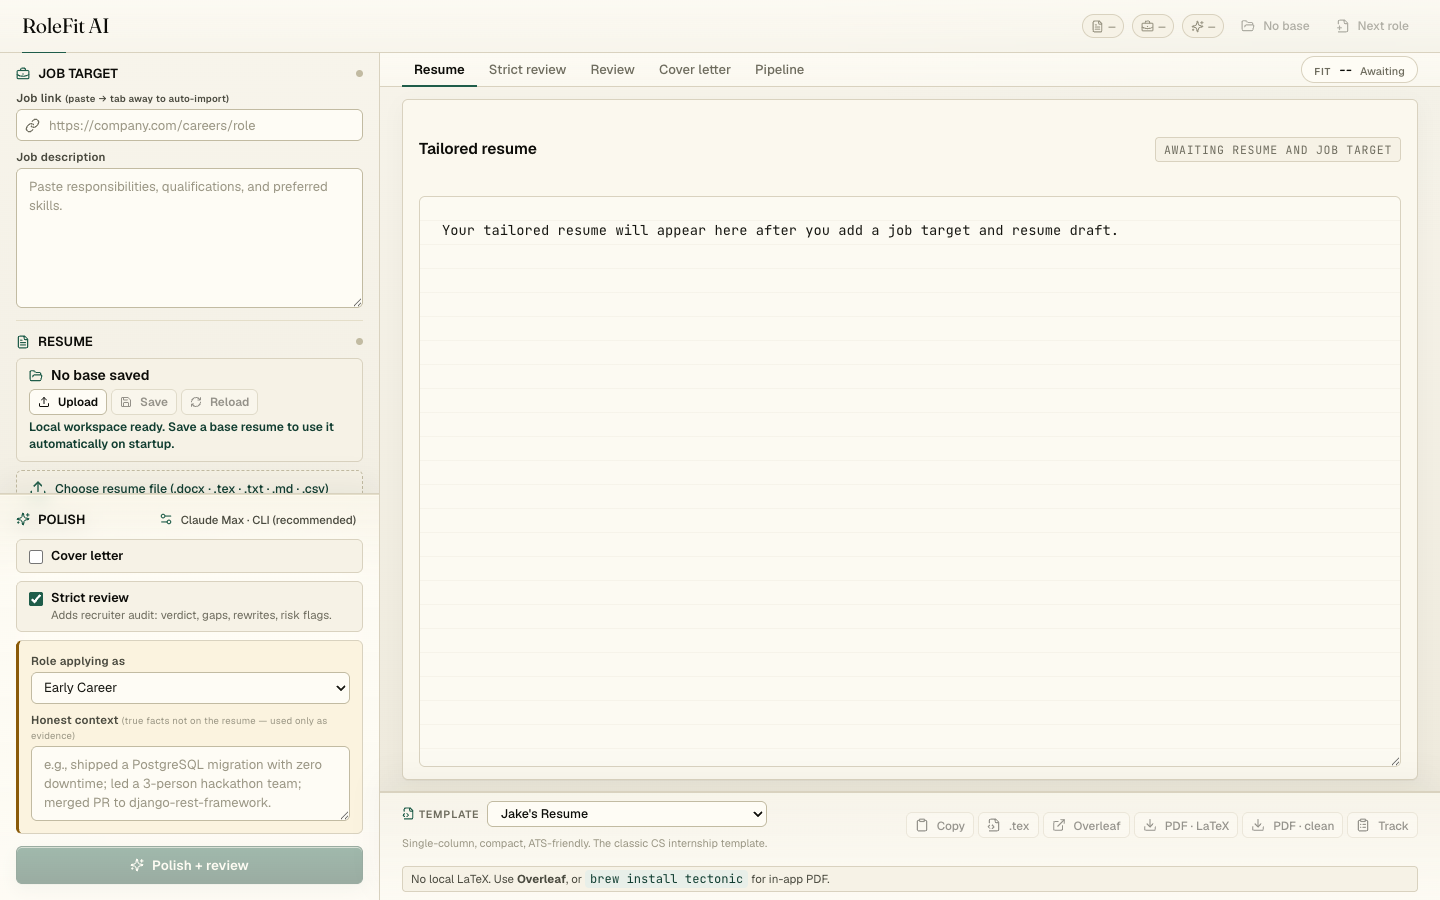
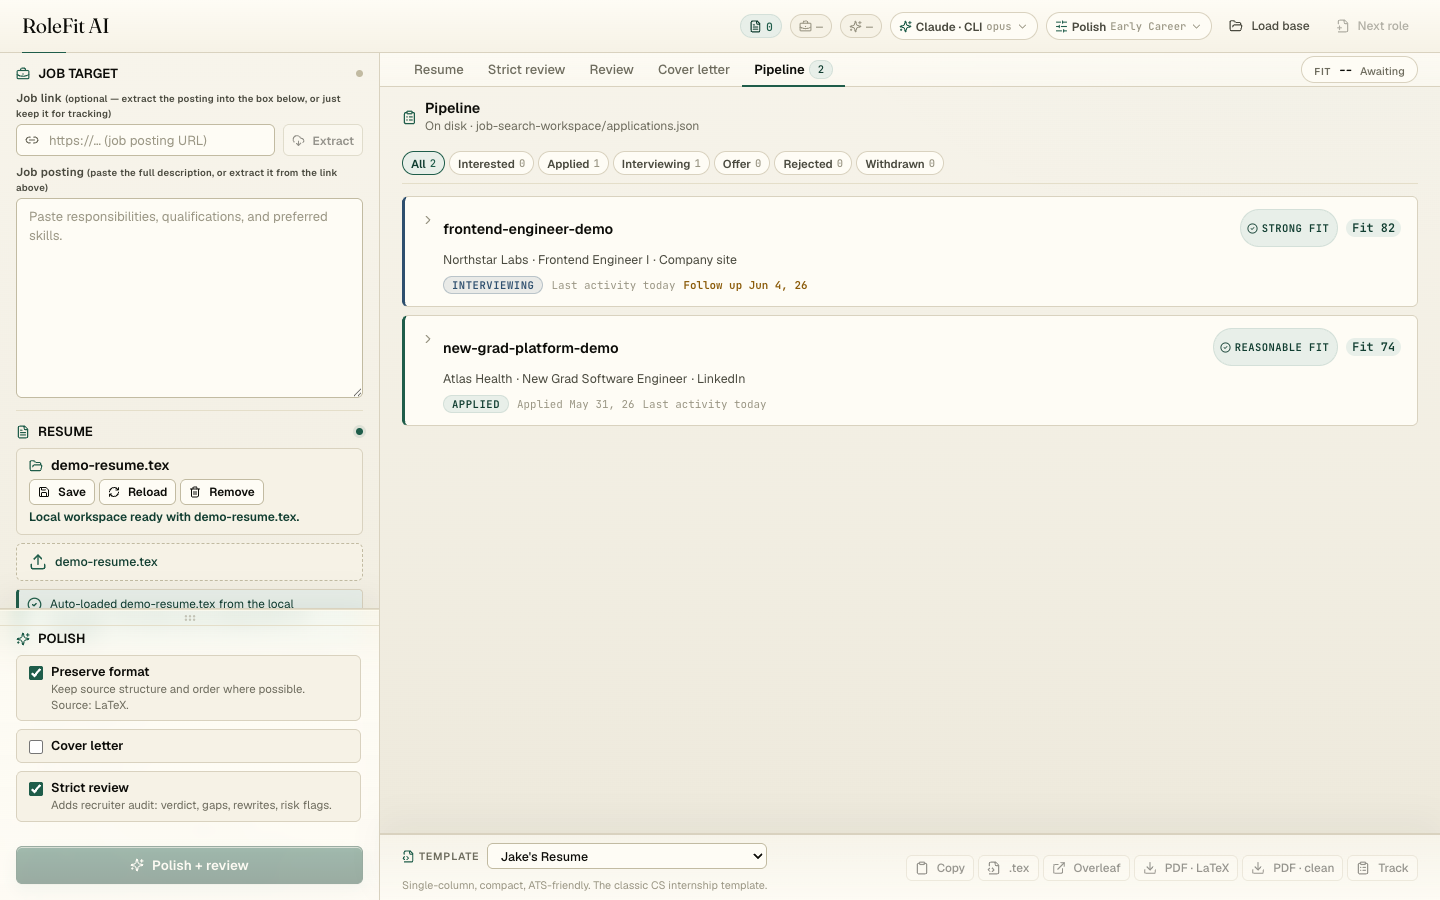
docs: refresh readme screenshot

diff --git a/README.md b/README.md
@@ -1,10 +1,12 @@
 # RoleFit AI
 
-A **local-first** resume tailoring webapp. Import a job posting (paste it, or pull it straight from the link), tailor your base resume from your workspace, score the draft against the job description, and export to LaTeX / DOCX / PDF — without your personal data leaving your machine.
+A **local-first** resume tailoring webapp. Import a job posting (paste it, or pull it straight from the link), tailor your base resume from your workspace, score the draft against the job description, and export to LaTeX / DOCX / PDF — without storing your personal data in a hosted app.
 
 > Built for an entry-level SDE job hunt: tight workflow loop, blunt recruiter-style audit before applying, and a local pipeline tracker so you never lose track of a role.
 
-![RoleFit AI workspace](docs/screenshot.png)
+![RoleFit AI pipeline workspace with demo data](docs/screenshot.png)
+
+_Screenshot uses demo workspace data._
 
 ## Highlights
 
@@ -17,11 +19,11 @@ A **local-first** resume tailoring webapp. Import a job posting (paste it, or pu
 - **DOCX format preservation** through direct OpenXML paragraph edits.
 - **Clean ATS PDF export** — a dependency-free PDF generated locally with real Helvetica metrics and WinAnsi encoding, so accented names (e.g. "José Müller") render and the text stays selectable for ATS parsing.
 - **On-disk pipeline tracker** with status / source / company / role / follow-up date / notes / resume snapshot per application — survives browser wipes.
-- **Local-first** — workspace lives in `job-search-workspace/` and never touches the network; API keys stay server-side in `.env`.
+- **Local-first storage** — workspace files live in `job-search-workspace/`; API keys stay server-side in `.env`. Cloud AI providers receive resume/job text only when you choose them for a polish request.
 
 ## Stack
 
-React 19 · TypeScript · Vite · Node.js (single-file `server.mjs` with Vite middleware in dev) · custom CSS · `lucide-react` icons
+React 19 · TypeScript · Vite · Node.js (`server.mjs` with focused helpers under `server/`) · custom CSS · `lucide-react` icons
 
 No SaaS dependencies. Optional integrations: OpenAI · Anthropic · Gemini · OpenRouter · Groq · Together · Mistral · local Ollama · Claude Code CLI · Codex CLI · Tectonic · Overleaf.
 
@@ -36,7 +38,7 @@ Visit `http://localhost:5181`.
 
 ## AI setup
 
-Pick a provider in the app's **Advanced AI settings** panel, or set a key in `.env`:
+Pick a provider/model from the top-bar AI menu, or set a key in `.env`:
 
 ```bash
 # pick one (or set multiple and switch in-app)
@@ -61,7 +63,7 @@ brew install codex
 codex login
 ```
 
-The app shells out to these CLIs for polish requests — no API key required.
+The app shells out to these CLIs for polish requests — no API key required. For fully local inference, point the Local/custom provider at a local OpenAI-compatible server such as Ollama.
 
 ## Optional local LaTeX
 
@@ -86,17 +88,23 @@ This folder is gitignored except its README. Personal resumes, PDFs, and DOCX fi
 ```
 server.mjs                       # main HTTP server
 server/
+  ai/polish.mjs                  # provider routing + prompt assembly
   ai-cli/index.mjs               # Claude Code / Codex CLI shell-out
   applications/index.mjs         # pipeline tracker storage
+  docx.mjs                       # DOCX import/export helpers
+  http.mjs                       # JSON/body/fetch utilities
   latex/                         # parser + 3 template renderers + optional Tectonic compile
+  network.mjs                    # job-link fetch + SSRF guards
 src/
   App.tsx                        # state + handlers + composition
+  config/aiOptions.ts            # provider/model/reasoning options
   hooks/{useApplications, useTemplates}.ts
+  lib/                           # downloads, job extraction, resume format/block helpers
   sections/                      # Masthead / SourcesPane / StudioPane / ExportRail
   sections/tabs/                 # Resume / Review / StrictReview / CoverLetter / Pipeline
-  lib/jobExtract.ts              # distills an imported posting to the relevant text
   resumeEngine.ts                # scoring + analysis + deterministic local fallback
   pdfResume.ts                   # clean ATS PDF (real Helvetica metrics + WinAnsi)
+  styles/                        # per-surface CSS + shared tokens
 docs/engineering/                # contributor notes (server, UI, git workflow, testing)
 job-search-workspace/            # local-only; gitignored except README
 ```